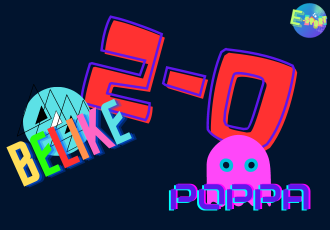
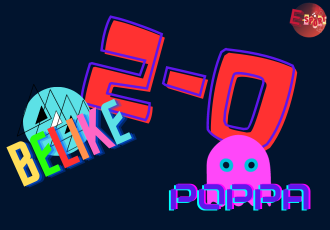
change

Changed region(s): [[0.8788, 0.0, 1.0, 0.1826]]

diff --git a/resources/views/normal/competition_detail.blade.php b/resources/views/normal/competition_detail.blade.php
@@ -1,7 +1,7 @@
 <x-app-layout>
     <x-slot name="header">
         <h2 class="font-semibold text-xl text-gray-800 dark:text-gray-200 leading-tight">
-            {{ __('CONPETITIONS DETAIL') }}
+            {{ __('รายละเอียดการแข่งขัน') }}
         </h2>
     </x-slot>
 
@@ -13,44 +13,44 @@
                         <img class="w-1/2 rounded-lg object-cover" src="{{$competition_list->cl_img}}" alt="product" />
                         <div class="rows py-3">
                             <div class="mx-4">
-                                COMPETITION NAME
+                                รายการแข่งขัน
                             </div>
                             <div class="mx-6">
                                 : {{$competition_list->competition_name}}
                             </div>
                             <div class="mx-4">
-                                GAME NAME
+                                เกม
                             </div>
                             <div class="mx-6">
                                 : {{$competition_list->game_name}}
                             </div>
                             <div class="mx-4">
-                                OPENING
+                                เปิดรับสมัครการแข่งขัน
                             </div>
                             <div class="mx-6">
                                 : {{$competition_list->opening_date}}
                             </div>
                             <div class="mx-4">
-                                END
+                                ปิดรับการสมัครการแข่งขัน
                             </div>
                             <div class="mx-6">
                                 : {{$competition_list->end_date}}
                             </div>
                             <div class="mx-4">
-                                COMPETITION RULE
+                                กฎกติกาการแข่งขัน
                             </div>
                             <div class="mx-6">
                                 : {{$competition_list->competition_rule}}
                             </div>
                             <div class="mx-4">
-                                START DATE
+                                วันเริ่มการแข่งขัน
                             </div>
                             <div class="mx-6">
                                 : {{$competition_list->	start_date}}
                             </div>
 
                             <div class="my-12">
-                                <center><button type="submit" class="bg-green-500 hover:bg-green-700 text-white font-bold py-1 px-1 rounded " onclick="#"><a href="{{ route('competition.createTeam', $competition_list->id)}}">REGISTER</a></button></center>
+                                <center><button type="submit" class="bg-green-500 hover:bg-green-700 text-white font-bold py-1 px-1 rounded "><a href="{{ route('competition.createTeam', $competition_list->id)}}">REGISTER</a></button></center>
                             </div>
                         </div>
                     </div>

diff --git a/resources/views/home.blade.php b/resources/views/home.blade.php
@@ -8,27 +8,41 @@
     <div class="w-30 h-50">
         <img src="{{ url('img/bg_head.png')}}" alt="">
     </div>
-    <div class="grid grid-cols-3 grid-flow-row p-8 ms-8">
-        <div class="cols ">
+    
+    <div class="flex justify-center p-8">
+        <div class="px-8">
             <img src="{{ url('img/news1.png')}}" alt="" >
             <a href="#"><p>ทีมน้องใหม่อย่าง BELIKE เอาชนะแชมป์เก่าอย่าง</p>POPPA ไปอย่างช็อคโลก</a>
         </div>
-        <!-- ... -->
-        <div>
+        <div class="px-8">
             <img src="{{ url('img/news2.png')}}" alt="" >
             <a href="#"><p>มทร. เปิดรับสมัครการแข่งขัน ROV เชิญชวนน้อง</p>นักศึกษามาเข้าร่วมการแข่งในรายการนี้</a>
         </div>
-        <!-- ... -->
-        <div>
+        <div class="px-8">
             <img src="{{ url('img/news3.png')}}" alt="" >
             <a href="#"><p>จะมีการเปิดการแข่งขันอีกครั้งในปี 2024 ปลายเดือน</p>กุมภาพันธ์ โปรดรอการประกาศจากทีมงาน</a>
         </div>
     </div>
-    <div class="w-50 h-30 p-8">
-        <img src="{{ url('img/bg_register.png')}}" alt="" >
+    <div class="grid justify-items-center">
+        <div>
+            <img src="{{ url('img/bg_register.png')}}" alt="">
+        </div>
+        <div class="pt-6">
+            <button type="submit" class="bg-gray-900 hover:bg-gray-700 text-rose-600 py-1 px-1 rounded text-xl" id="swal">ลงทะเบียน</button>
+        </div>
     </div>
-    <div class="text-center py-8">
-        <button type="submit" class="bg-green-500 hover:bg-green-700 text-white py-1 px-1 rounded text-xl">ลงทะเบียน</button>
-    </div>
+    <script>
+        document.getElementById('swal').addEventListener('click', function(){
+            Swal.fire({
+            position: "top-end",
+            icon: "success",
+            title: "Your work has been saved",
+            showConfirmButton: false,
+            timer: 1500
+            });
+        })
+    </script>
+    
+    
 
 </x-app-layout>

diff --git a/resources/views/normal/grid_competition_list.blade.php b/resources/views/normal/grid_competition_list.blade.php
@@ -22,8 +22,10 @@
                         <div class="max-w-xs cursor-pointer rounded-lg bg-white p-2 shadow duration-150 hover:scale-105 hover:shadow-md">
                         <img class="h-40 w-60 rounded-lg object-cover object-center" src="{{ $competition_list->cl_img}}" alt="product" />
                         <p class="my-4 pl-4 font-bold text-gray-500">{{ $competition_list->competition_name}}</p>
-                        <button type="submit" class="bg-green-500 hover:bg-green-700 text-white font-bold py-1 px-1 rounded " onclick="#"><a href="{{ route('competition.detail', $competition_list->id)}}">DETAIL</a></button>
-                        <button type="submit" class="bg-blue-500 hover:bg-blue-700 text-white font-bold py-1 px-1 rounded " onclick="#"><a href="{{ route('team_grid', $competition_list->id) }}">TEAM LIST</a></button>
+                        <p class="my-4 pl-4 font-bold text-gray-500">{{ $competition_list->game_name}}</p>
+                        <p class="my-4 pl-4 font-bold text-gray-500">{{ $competition_list->start_date}}</p>
+                        <button type="submit" class="bg-green-500 hover:bg-green-700 text-white font-bold py-1 px-1 rounded "><a href="{{ route('competition.detail', $competition_list->id)}}">DETAIL</a></button>
+                        <button type="submit" class="bg-blue-500 hover:bg-blue-700 text-white font-bold py-1 px-1 rounded "><a href="{{ route('team_grid', $competition_list->id) }}">TEAM LIST</a></button>
                         </div>
                         
                     </div>

diff --git a/resources/views/layouts/app.blade.php b/resources/views/layouts/app.blade.php
@@ -8,17 +8,20 @@
         <!-- Fonts -->
         <link rel="preconnect" href="https://fonts.bunny.net">
         <link href="https://fonts.bunny.net/css?family=figtree:400,500,600&display=swap" rel="stylesheet" />
+        
+        <!--Alert-->
+        <script src="https://cdn.jsdelivr.net/npm/sweetalert2@11"></script>
 
         <!-- Scripts -->
         @vite(['resources/css/app.css', 'resources/js/app.js'])
     </head>
     <body class="font-sans antialiased">
-        <div class="min-h-screen bg-violet-300 dark:bg-gray-900 shadow overscroll-auto">
+        <div class="min-h-screen bg-red-400 dark:bg-gray-900 shadow overscroll-auto">
             @include('layouts.navigation')
 
             <!-- Page Heading -->
             @if (isset($header))
-                <header class="bg-violet-400 dark:bg-gray-800 shadow overscroll-contain">
+                <header class="bg-red-400 dark:bg-gray-800 shadow overscroll-contain">
                     <div class="max-w-7xl mx-auto py-6 px-4 sm:px-6 lg:px-8">
                         {{ $header }}
                     </div>
@@ -31,7 +34,7 @@
             </main>
         </div>
     </body>
-    <footer class="pt-5 bg-violet-300 dark:bg-gray-900 shadow">
+    <footer class="pt-5 bg-red-400 dark:bg-gray-900 shadow">
         @include('layouts.footer')
     </footer>
 </html>

diff --git a/resources/views/layouts/navigation.blade.php b/resources/views/layouts/navigation.blade.php
@@ -1,4 +1,4 @@
-<nav x-data="{ open: false }" class="bg-lime-300 dark:bg-gray-800 border-b border-gray-100 dark:border-gray-700">
+<nav x-data="{ open: false }" class="bg-slate-900 dark:bg-gray-800 border-b border-gray-100 dark:border-gray-700">
     <!-- Primary Navigation Menu -->
     <div class="max-w-8xl mx-auto px-4 sm:px-6 lg:px-8">
         <div class="flex justify-between h-28">
@@ -6,7 +6,7 @@
                 <!-- Logo -->    
                 <div class="shrink-0 flex items-center ">
                         <div class="w-24 h-20">
-                            <img src="{{ url('img/E-Sport_Logo.png')}}" alt="" >
+                            <img src="{{ url('img/Logo.png')}}" alt="" >
                         </div>
                 </div>
                 @guest

diff --git a/resources/views/normal/contestants_create.blade.php b/resources/views/normal/contestants_create.blade.php
@@ -415,11 +415,12 @@
                                 <div class="cols col-span-3 text-center">
                                     <button type="submit" class="bg-green-500 hover:bg-green-700 text-white py-1 px-1 rounded text-xl">ลงทะเบียน</button>
                                 </div>
-                        </div>
+                            </div>
 
                     </form>
                 </div>
             </div>
         </div>
     </div>
+
 </x-app-layout>

diff --git a/resources/views/layouts/footer.blade.php b/resources/views/layouts/footer.blade.php
@@ -1,7 +1,7 @@
-<div class="bg-lime-300">
+<div class="bg-slate-900 text-rose-600">
     <div class="grid grid-cols-9 grid-flow-row">
         <div class="w-20 h-20">
-            <img src="{{ url('img/E-Sport_Logo.png')}}" alt="" >
+            <img src="{{ url('img/Logo.png')}}" alt="" >
         </div>
         
         <div class="pt-6 ">
